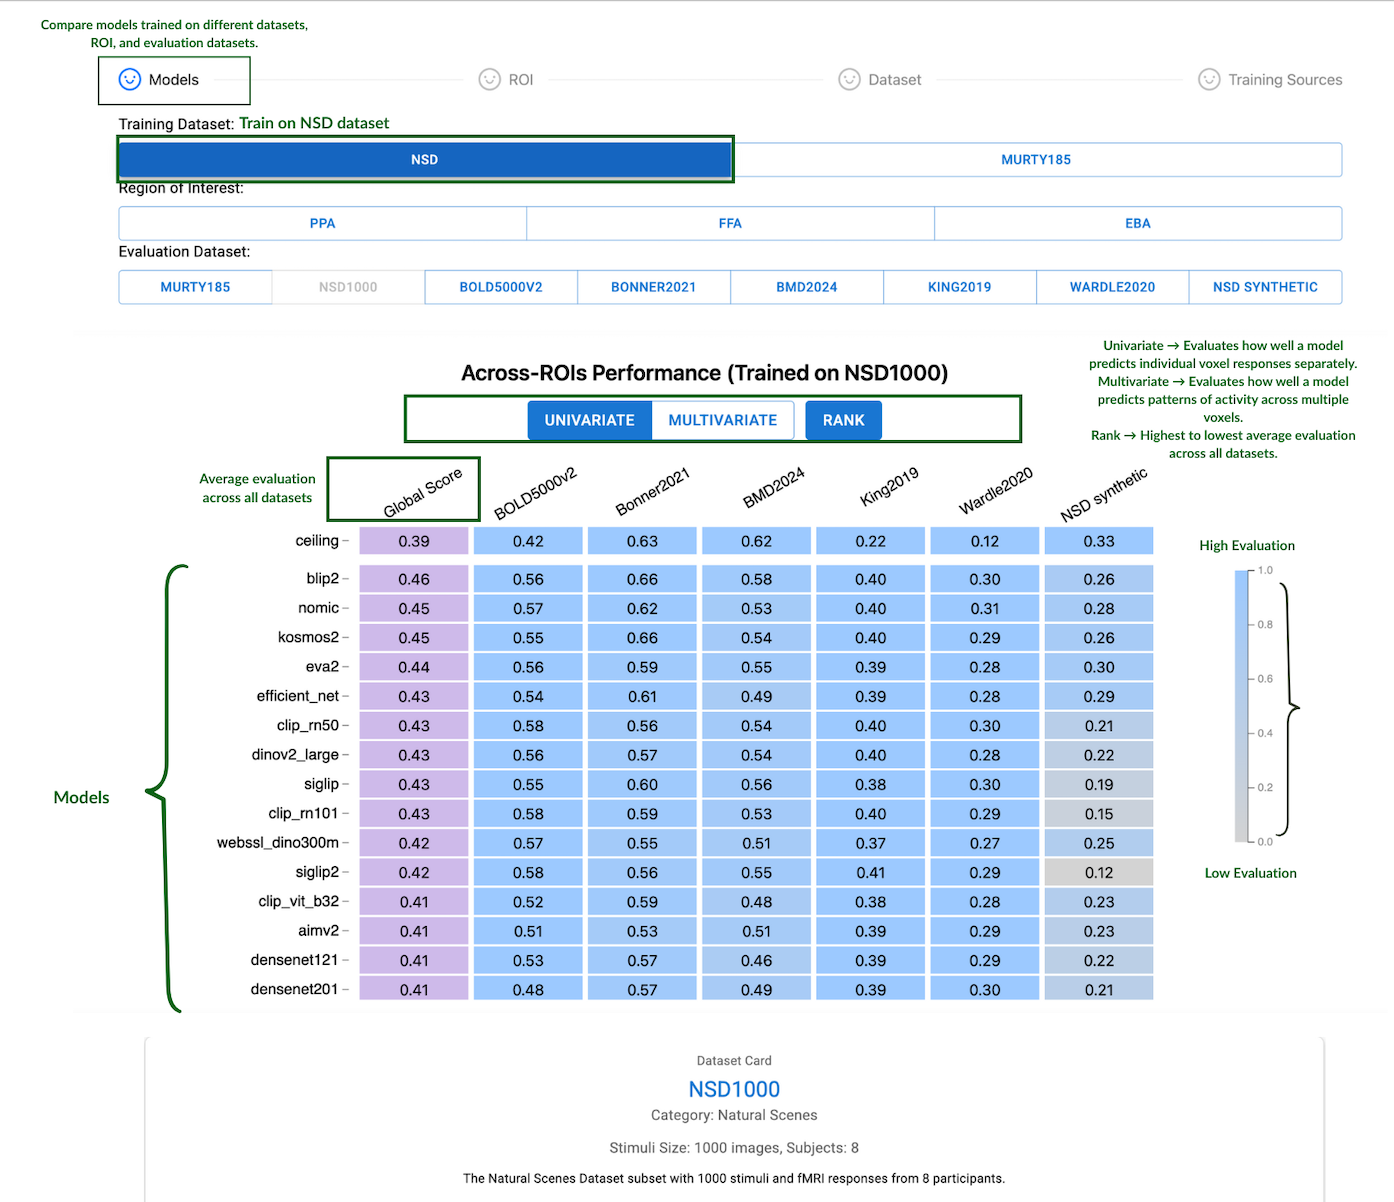
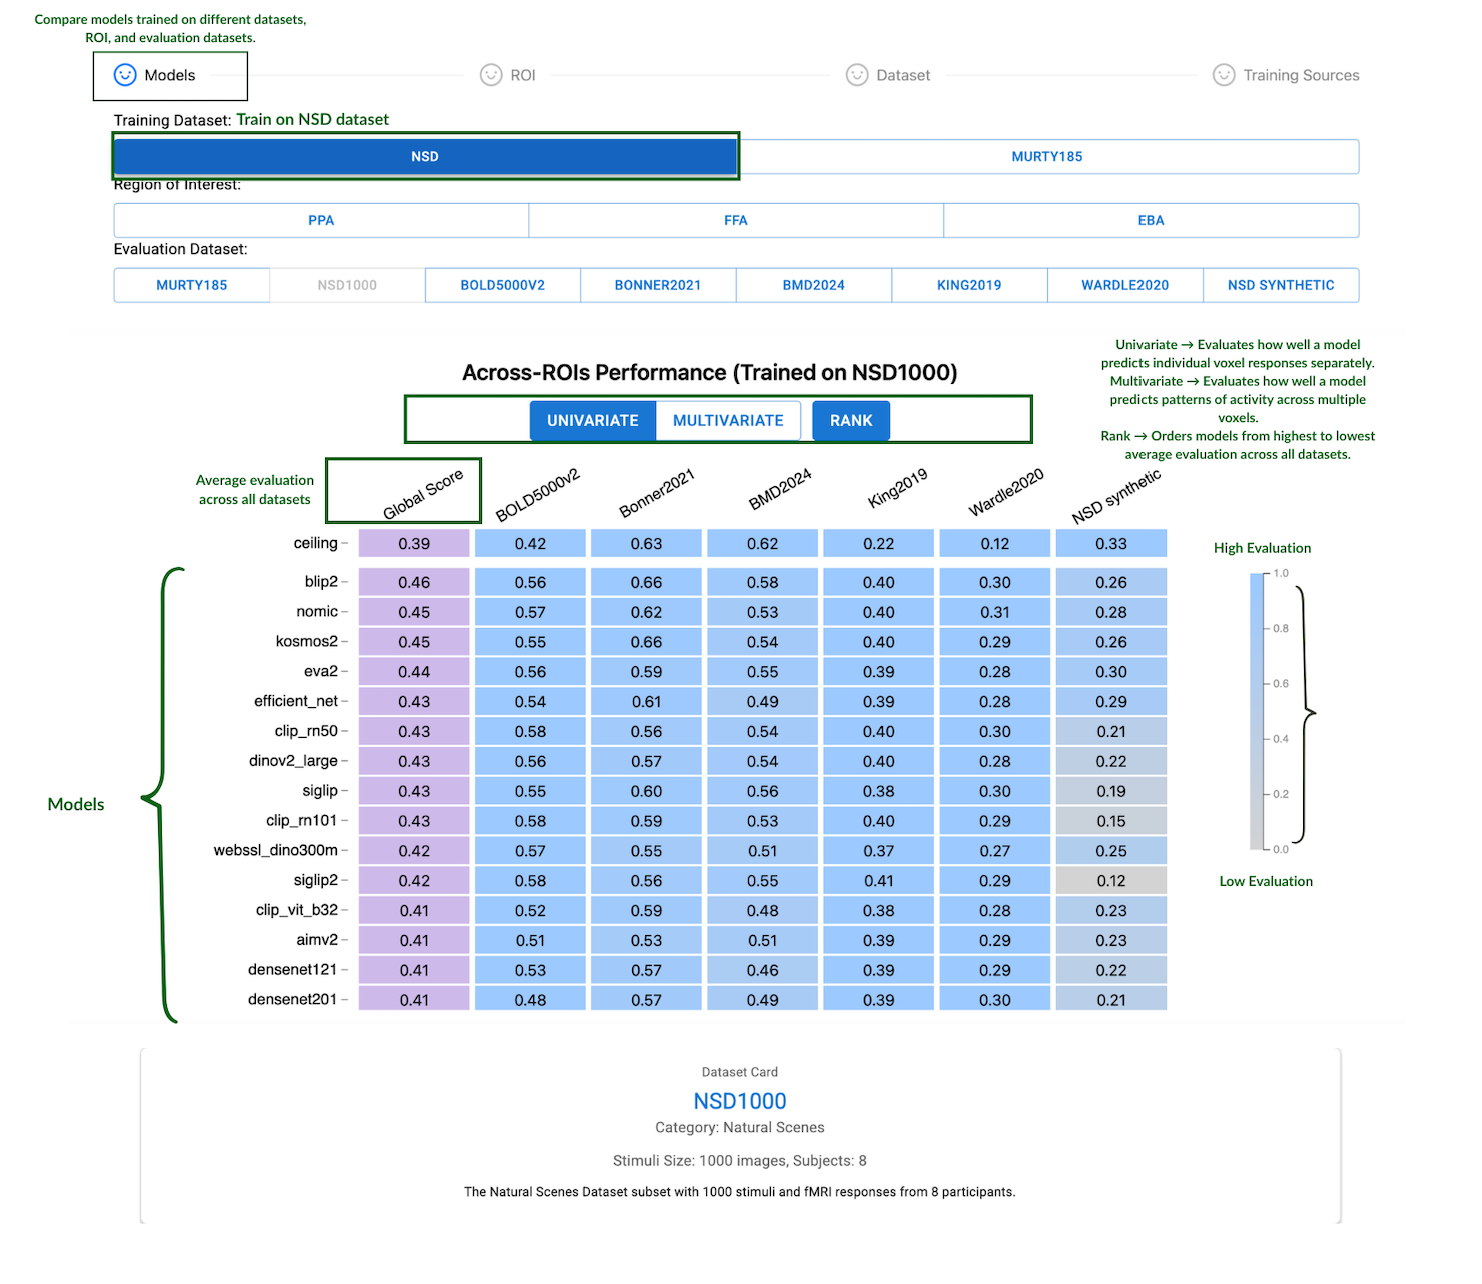
walkthrough bug fixes

Changed region(s): [[0.0308, 0.0, 0.9871, 0.985], [0.0308, 0.4309, 0.1234, 0.8311], [0.5861, 0.0308, 0.6169, 0.0616]]

diff --git a/walkthrough.html b/walkthrough.html
@@ -118,17 +118,25 @@
 </body>
 </html>
 <style>
- .controls {
+.controls {
+  position: fixed;
+  bottom: 0;               /* stick to bottom */
+  left: 0;
+  width: 100%;             /* stretch across screen */
   display: flex;
-  justify-content: center;  /* center all buttons */
-  gap: 1rem;                /* spacing between buttons */
-  margin-top: 1rem;
+  justify-content: center; /* center all buttons */
+  gap: 1rem;               /* spacing between buttons */
+  padding: 0.75rem;
+  background: #fff;        /* white background so it doesn’t overlap invisibly */
+  border-top: 1px solid #ddd; /* subtle divider */
+  z-index: 1000;           /* stay above other content */
 }
 
 .controls .btn {
   font-size: 0.9rem;
   padding: 6px 14px;
 }
+
 
 </style>
 

diff --git a/assets/css/main.css b/assets/css/main.css
@@ -2928,9 +2928,9 @@ section,
 
 .walkthrough-img {
   display: block;
-  max-width: 100%;   /* don’t go beyond page width */
-  height: auto;      /* keep aspect ratio */
-  margin: 0 auto;    /* center image */
-  padding: 1rem 0;   /* space around it */
+  max-width: 100%;   
+  height: auto;     
+  margin: 0 auto;    
+  padding: 1rem 0;   
 }
 
